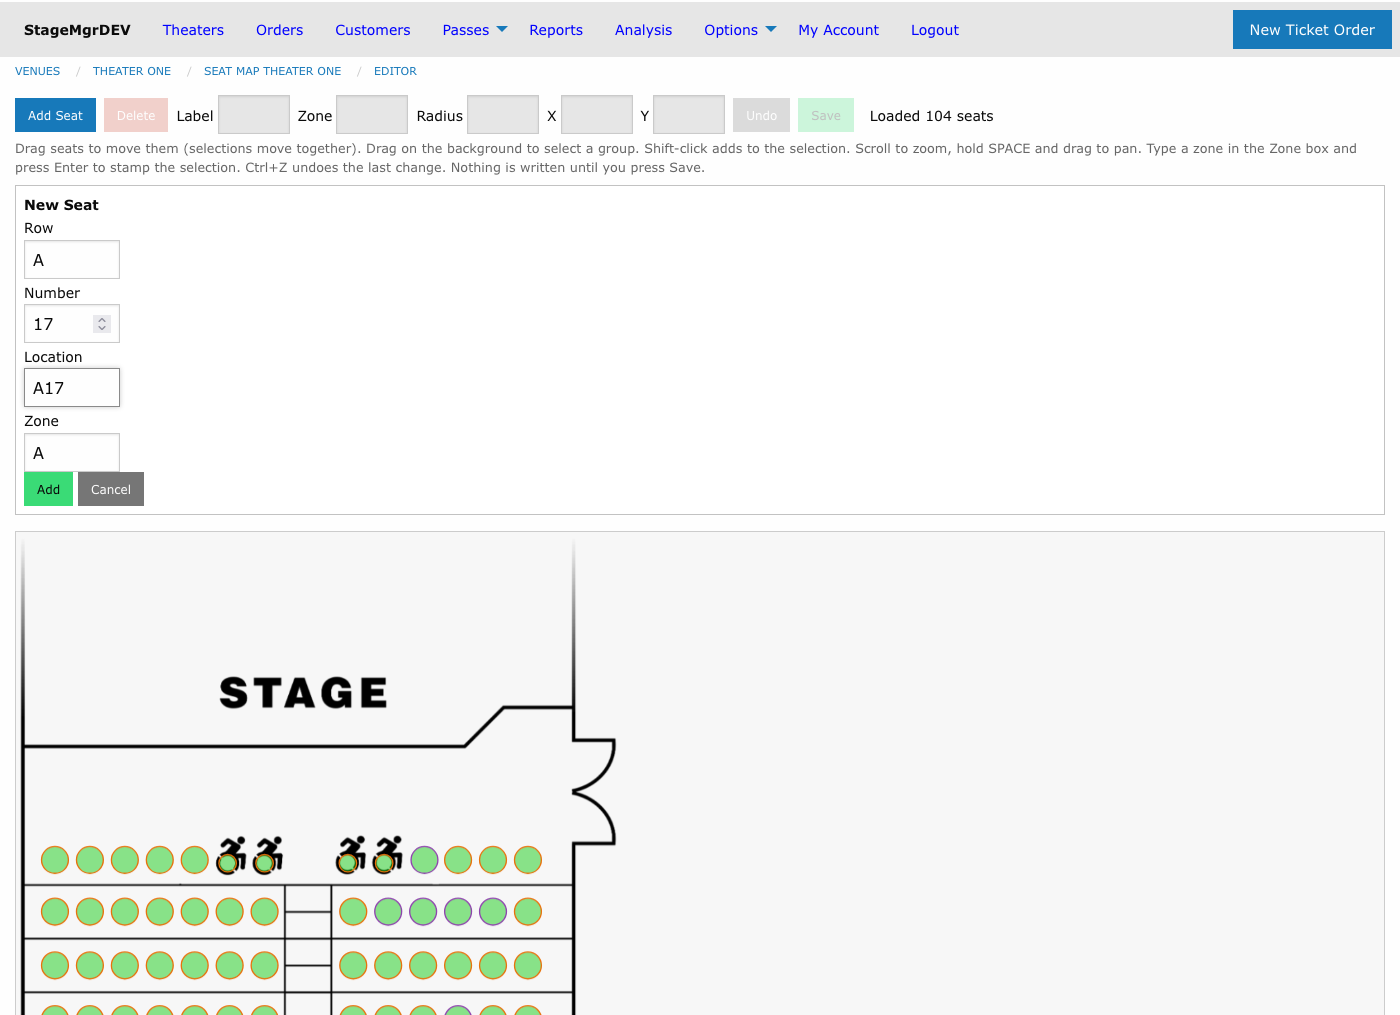
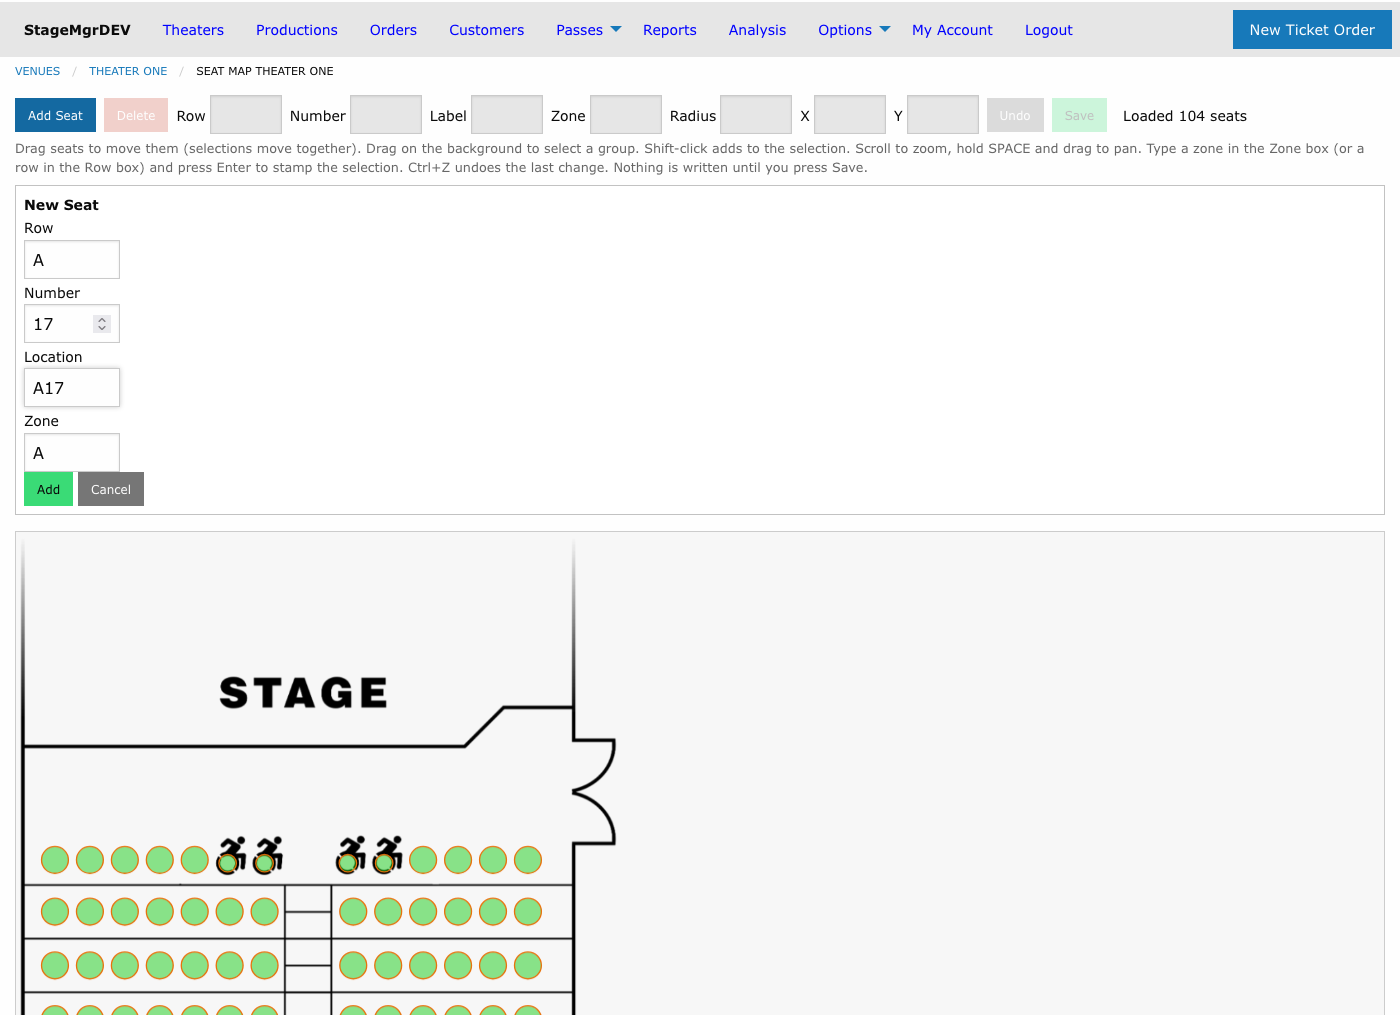
docs: retake the seat map screenshots with the Row and Number boxes
Also widens the two new toolbar boxes so "mult." is not clipped.

Claude-Session: https://claude.ai/code/session_01F67KFVANRPM9crPc66zH1R

diff --git a/app/assets/stylesheets/application.scss b/app/assets/stylesheets/application.scss
@@ -322,7 +322,7 @@ form.lgl-resync {
 
   // Row keeps the case it was typed in, so show it as stored.
   .editor-zone-label--narrow input {
-    width: 3.5rem;
+    width: 4.5rem;
     text-transform: none;
   }
 }

diff --git a/docs/manual/setup/seat-map-editor.md b/docs/manual/setup/seat-map-editor.md
@@ -46,7 +46,7 @@ A red **● unsaved changes** indicator appears whenever the working copy differ
 
 When multiple seats are selected, each property box shows the value they share, or **mult.** when the values differ. The Number and Label boxes are the exceptions -- they are set one seat at a time, so they read **mult.** and lock whenever more than one seat is selected.
 
-![A full row selected with the marquee; the toolbar shows Zone B and Y 1045 shared by the selection, with Label and X reading "mult."](../assets/images/screenshots/setup-seat-map-editor-selection.png)
+![A full row selected with the marquee; the toolbar shows Row H, Zone A, Radius 20 and Y 1045 shared by the selection, with Number, Label and X reading "mult."](../assets/images/screenshots/setup-seat-map-editor-selection.png)
 
 ## Moving and Aligning Seats
 

diff --git a/docs/manual/setup/seat-maps.md b/docs/manual/setup/seat-maps.md
@@ -16,7 +16,7 @@ When a seat map is assigned to a production, that production becomes a **reserve
 
 ## Creating a Seat Map
 
-![The seat map edit form with label, image upload, and geometry file fields](../assets/images/screenshots/setup-seat-map-form.png)
+![The seat map edit form with label, image upload, geometry file and Present as zoned fields](../assets/images/screenshots/setup-seat-map-form.png)
 
 1. Navigate to the seat maps list
 2. Click **New Seat Map**
